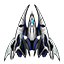
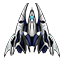
find the shot point origin & fix sprite texture center

diff --git a/clx-tank/clx-tank/Player.h b/clx-tank/clx-tank/Player.h
@@ -12,10 +12,12 @@ class Player
 		sf::Vector2f velocity;
 		sf::Sprite shape;
 		Controls controls;
+		sf::Vector2f shootStartPoint;
 	public:
 		Player() {
 			this->position = sf::Vector2f(0.f, 0.f);
 			this->velocity = sf::Vector2f(1.f, 0.f);
+			this->shootStartPoint = this->shape.getTransform().transformPoint(32, 16);
 			this->shape = sf::Sprite();
 			this->shape.setPosition(this->position);
 		}
@@ -59,9 +61,26 @@ void Player::update(sf::RenderWindow *window) {
 	float angle = (atan2(dy, dx) + M_PI / 2.f) * 180.f / M_PI;
 	Utils::setOriginAndReadjust(this->shape, sf::Vector2f(diffOrigin, diffOrigin));
 	this->shape.setRotation(angle);
+	this->shootStartPoint = this->shape.getTransform().transformPoint(32, 16);
 }
 
 void Player::render(sf::RenderWindow *window) {
-	this->shape.setPosition(this->position);	
+	// sprite
+	this->shape.setPosition(this->position);
+	// shape
+	sf::RectangleShape r;
+	sf::FloatRect s = this->shape.getLocalBounds();
+	r.setSize(sf::Vector2f(s.width, s.height));
+	r.setFillColor(sf::Color::Green);
+	r.setPosition(sf::Vector2f(this->position.x, this->position.y));
+	Utils::setOriginAndReadjust(r, sf::Vector2f(8.f, 8.f));
+	r.setRotation(this->shape.getRotation());
+	window->draw(r);
+	// sprite
 	window->draw(this->shape);
+	// shot origin
+	sf::CircleShape c(3.f);
+	c.setFillColor(sf::Color::Red);
+	c.setPosition(this->shootStartPoint);
+	window->draw(c);	
 }
